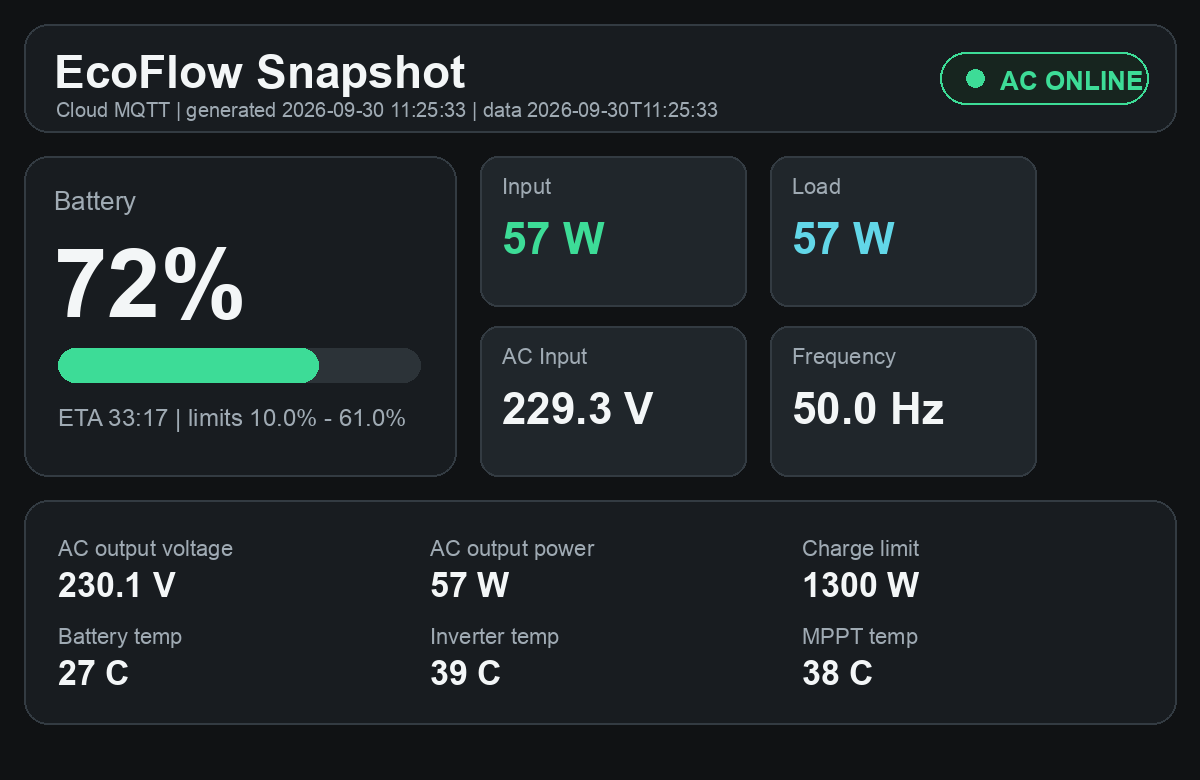
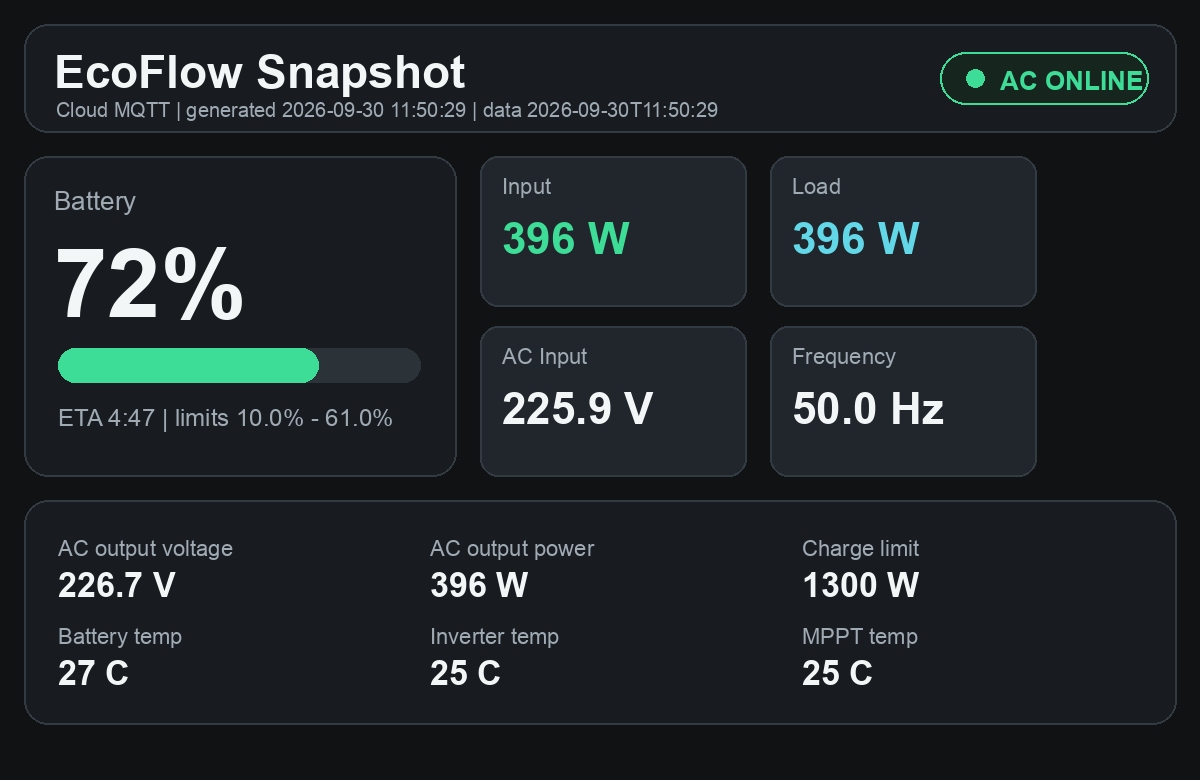
Update EcoFlow dashboard 2026-09-30 11:50:29

diff --git a/index.html b/index.html
@@ -177,7 +177,7 @@
   <header>
     <div>
       <h1>EcoFlow Snapshot</h1>
-      <div class="sub">Cloud MQTT · generated 2026-09-30T11:25:33 · data 2026-09-30T11:25:33</div>
+      <div class="sub">Cloud MQTT · generated 2026-09-30T11:50:29 · data 2026-09-30T11:50:29</div>
     </div>
     <div class="status online"><span class="dot"></span><span>AC online</span></div>
   </header>
@@ -189,22 +189,22 @@
       <h2>Battery</h2>
       <div class="value">72%</div>
       <div class="battery"><div class="fill"></div></div>
-      <div class="row"><span>ETA</span><span>33:17</span></div>
+      <div class="row"><span>ETA</span><span>4:47</span></div>
       <div class="row"><span>SOC limits</span><span>10.0% - 61.0%</span></div>
     </section>
     <section>
       <h2>AC</h2>
-      <div class="row"><span>Input voltage</span><span>229.3 V</span></div>
+      <div class="row"><span>Input voltage</span><span>225.9 V</span></div>
       <div class="row"><span>Input frequency</span><span>50.0 Hz</span></div>
-      <div class="row"><span>Output voltage</span><span>230.1 V</span></div>
+      <div class="row"><span>Output voltage</span><span>226.7 V</span></div>
     </section>
   </div>
 
   <div class="cards">
-    <div class="card"><span class="label">Input</span><span class="value">57 W</span></div>
-    <div class="card"><span class="label">Load</span><span class="value">57 W</span></div>
+    <div class="card"><span class="label">Input</span><span class="value">396 W</span></div>
+    <div class="card"><span class="label">Load</span><span class="value">396 W</span></div>
     <div class="card"><span class="label">Battery temp</span><span class="value">27°C</span></div>
-    <div class="card"><span class="label">Inverter temp</span><span class="value">39°C</span></div>
+    <div class="card"><span class="label">Inverter temp</span><span class="value">25°C</span></div>
   </div>
 
   
@@ -212,13 +212,13 @@
       <h2>Останні 24 години</h2>
       <div class="daily-grid">
         <div class="daily-item"><span class="label">Напруга min / max</span><strong>216 V / 231 V</strong><small>30.09 07:06 / 30.09 10:26</small></div>
-        <div class="daily-item"><span class="label">SOC min / max</span><strong>59% / 76%</strong><small>29.09 11:29 / 29.09 21:12</small></div>
+        <div class="daily-item"><span class="label">SOC min / max</span><strong>59% / 76%</strong><small>29.09 11:51 / 29.09 21:12</small></div>
         <div class="daily-item"><span class="label">Пік навантаження</span><strong>435 W</strong><small>29.09 17:49</small></div>
         <div class="daily-item"><span class="label">Зарядний ліміт</span><strong>1300 W</strong><small>пік входу 1358 W · 104% ліміту</small></div>
         <div class="daily-item"><span class="label">Заряджання</span><strong>14 хв</strong><small>останнє 29.09 21:12</small></div>
         <div class="daily-item"><span class="label">Розряджання</span><strong>0 сек</strong><small>--</small></div>
-        <div class="daily-item"><span class="label">Енергія вхід / вихід</span><strong>587 Wh / 279 Wh</strong><small>оцінка за sample-ами</small></div>
-        <div class="daily-item"><span class="label">Частота min / max</span><strong>50.0 Hz / 50.0 Hz</strong><small>29.09 11:29 / 29.09 11:29</small></div>
+        <div class="daily-item"><span class="label">Енергія вхід / вихід</span><strong>605 Wh / 298 Wh</strong><small>оцінка за sample-ами</small></div>
+        <div class="daily-item"><span class="label">Частота min / max</span><strong>50.0 Hz / 50.0 Hz</strong><small>29.09 11:51 / 29.09 11:51</small></div>
       </div>
     </section>
     
@@ -241,29 +241,29 @@
   &quot;ok&quot;: true,
   &quot;source&quot;: &quot;Cloud MQTT&quot;,
   &quot;device&quot;: &quot;DELTA Pro&quot;,
-  &quot;timestamp&quot;: &quot;2026-09-30T11:25:33&quot;,
+  &quot;timestamp&quot;: &quot;2026-09-30T11:50:29&quot;,
   &quot;grid&quot;: true,
   &quot;battery&quot;: {
     &quot;soc&quot;: 72,
     &quot;min&quot;: 10.0,
     &quot;max&quot;: 61.0,
-    &quot;eta&quot;: &quot;33:17&quot;
+    &quot;eta&quot;: &quot;4:47&quot;
   },
   &quot;power&quot;: {
-    &quot;in&quot;: 57,
-    &quot;out&quot;: 57,
-    &quot;acOut&quot;: 57,
+    &quot;in&quot;: 396,
+    &quot;out&quot;: 396,
+    &quot;acOut&quot;: 396,
     &quot;chargeLimit&quot;: 1300
   },
   &quot;ac&quot;: {
-    &quot;inputVoltage&quot;: 229.329,
+    &quot;inputVoltage&quot;: 225.91,
     &quot;inputFreq&quot;: 50.0,
-    &quot;outputVoltage&quot;: 230.137
+    &quot;outputVoltage&quot;: 226.701
   },
   &quot;temps&quot;: {
     &quot;battery&quot;: 27,
-    &quot;inverter&quot;: 39,
-    &quot;mppt&quot;: 38
+    &quot;inverter&quot;: 25,
+    &quot;mppt&quot;: 25
   },
   &quot;history&quot;: [
     {
@@ -307,16 +307,16 @@
   ],
   &quot;telemetry&quot;: {
     &quot;window&quot;: &quot;24h&quot;,
-    &quot;sample_count&quot;: 283,
-    &quot;from&quot;: &quot;2026-09-29T11:29:59&quot;,
-    &quot;to&quot;: &quot;2026-09-30T11:25:33&quot;,
+    &quot;sample_count&quot;: 272,
+    &quot;from&quot;: &quot;2026-09-29T11:51:04&quot;,
+    &quot;to&quot;: &quot;2026-09-30T11:50:29&quot;,
     &quot;latest&quot;: {
       &quot;mode&quot;: &quot;idle&quot;,
       &quot;grid&quot;: true,
       &quot;soc&quot;: 72.0,
-      &quot;ac_v&quot;: 229.329,
-      &quot;in_w&quot;: 57.0,
-      &quot;out_w&quot;: 57.0,
+      &quot;ac_v&quot;: 225.91,
+      &quot;in_w&quot;: 396.0,
+      &quot;out_w&quot;: 396.0,
       &quot;charge_limit_w&quot;: 1300.0
     },
     &quot;voltage&quot;: {
@@ -330,17 +330,17 @@
       },
       &quot;frequency_min&quot;: {
         &quot;value&quot;: 50.0,
-        &quot;ts&quot;: &quot;2026-09-29T11:29:59&quot;
+        &quot;ts&quot;: &quot;2026-09-29T11:51:04&quot;
       },
       &quot;frequency_max&quot;: {
         &quot;value&quot;: 50.0,
-        &quot;ts&quot;: &quot;2026-09-29T11:29:59&quot;
+        &quot;ts&quot;: &quot;2026-09-29T11:51:04&quot;
       }
     },
     &quot;soc&quot;: {
       &quot;min&quot;: {
         &quot;value&quot;: 59.0,
-        &quot;ts&quot;: &quot;2026-09-29T11:29:59&quot;
+        &quot;ts&quot;: &quot;2026-09-29T11:51:04&quot;
       },
       &quot;max&quot;: {
         &quot;value&quot;: 76.0,
@@ -362,16 +362,16 @@
       },
       &quot;charge_limit_w&quot;: 1300.0,
       &quot;max_input_pct_of_current_limit&quot;: 104,
-      &quot;input_wh_est&quot;: 586.6,
-      &quot;load_wh_est&quot;: 279.4
+      &quot;input_wh_est&quot;: 605.3,
+      &quot;load_wh_est&quot;: 298.1
     },
     &quot;modes&quot;: {
       &quot;charging_sec&quot;: 851,
       &quot;discharging_sec&quot;: 0,
-      &quot;idle_sec&quot;: 18820,
+      &quot;idle_sec&quot;: 18228,
       &quot;charging&quot;: &quot;14 хв&quot;,
       &quot;discharging&quot;: &quot;0 сек&quot;,
-      &quot;idle&quot;: &quot;5 год 13 хв&quot;,
+      &quot;idle&quot;: &quot;5 год 03 хв&quot;,
       &quot;last_charging&quot;: {
         &quot;ts&quot;: &quot;2026-09-29T21:12:45&quot;,
         &quot;grid&quot;: true,
